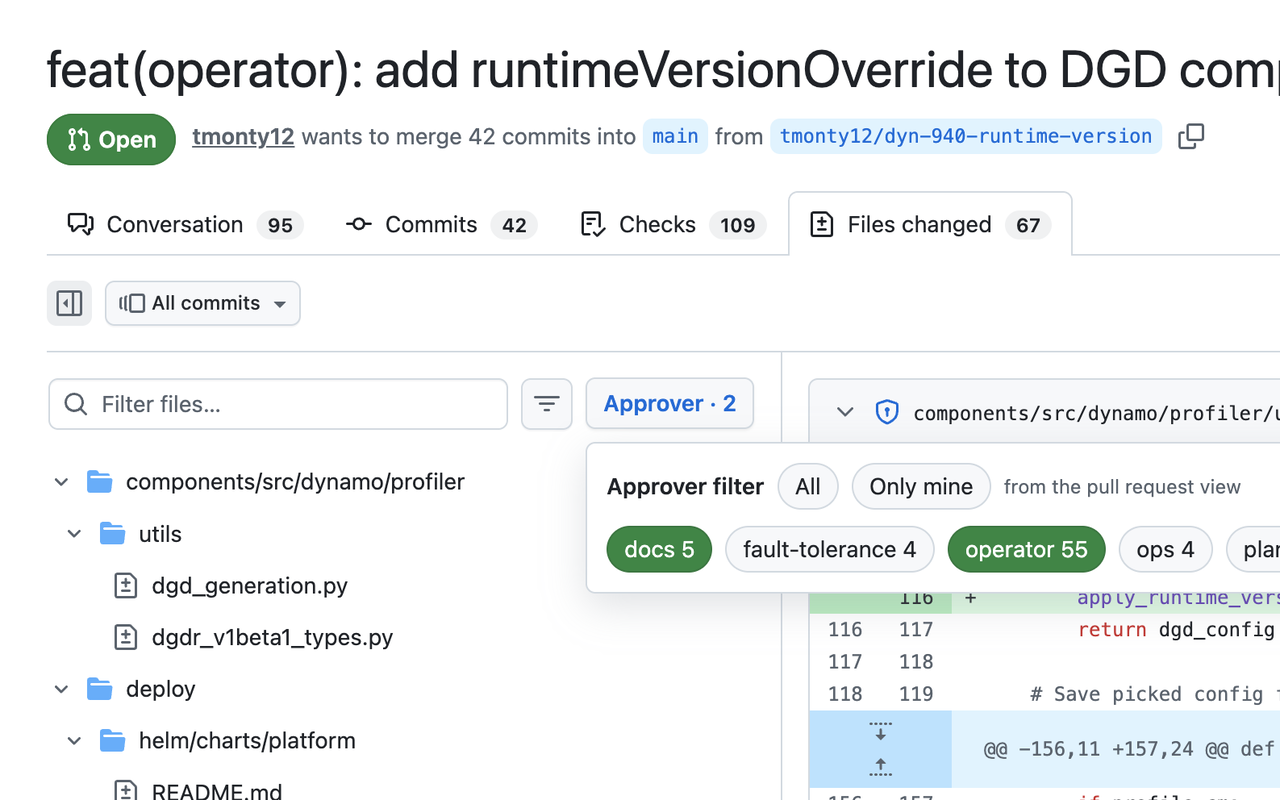
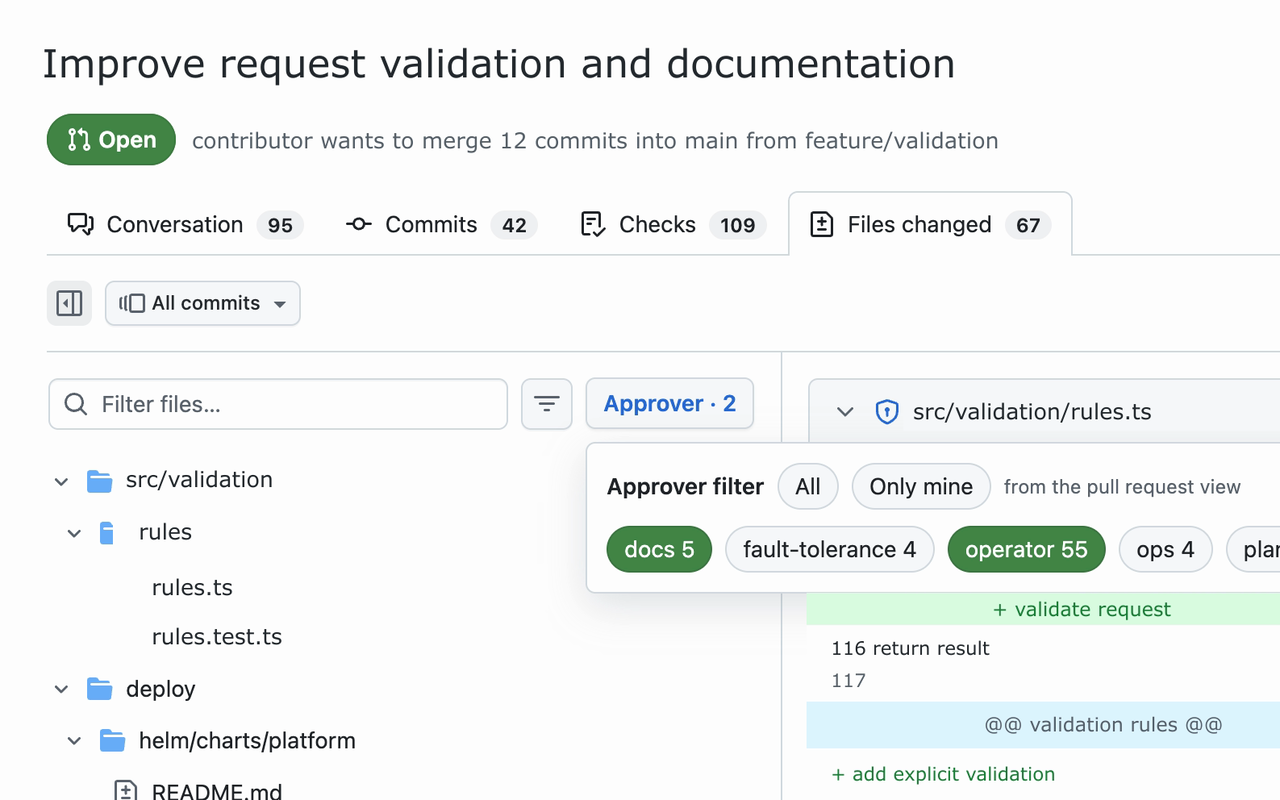
extension/release: remove project-specific references

diff --git a/src/content.js b/src/content.js
@@ -410,7 +410,7 @@
 
     const name = owner.replace(/^@/, "").split("/").at(-1);
 
-    return name.replace(/^dynamo-/, "").replace(/-codeowners$/, "");
+    return name.replace(/-codeowners$/, "");
   }
 
   function scanFiles() {

diff --git a/AGENTS.md b/AGENTS.md
@@ -1,0 +1,49 @@
+# Project instructions
+
+## Product
+
+- This is a vendor-neutral Manifest V3 Chrome extension for filtering GitHub pull-request files by CODEOWNER or approver groups.
+- Keep all user-facing text in English.
+- Do not introduce company-, organization-, repository-, employee-, or project-specific names into source code, tests, documentation, screenshots, fixtures, or release packages.
+- Do not add organization-specific owner-name transformations or special cases.
+- Do not collect or transmit browsing data. Persist only repository-local preferences required by the extension.
+
+## GitHub compatibility
+
+- Support both GitHub's classic diff view and its React-based Files changed preview.
+- Prefer semantic attributes, accessible labels, links, and stable DOM relationships over generated CSS-module class names.
+- Apply filtering to both diff entries and the file tree.
+- Use OR semantics when multiple owner groups are selected.
+- Treat Only mine as an action: select the groups inferred from GitHub's ownership labels and close the popup. It is not an independent filter state.
+- Close popups when the user clicks outside them.
+
+## CODEOWNERS
+
+- Preserve the verbatim matching CODEOWNERS rule and its line number.
+- Show every relevant matching rule in the owner tooltip and link each rule to its CODEOWNERS file and line.
+- Preserve multiple owners for a file; never reduce them to one owner.
+- Owner display names may remove the generic `-codeowners` suffix only.
+
+## UI
+
+- Integrate controls beside GitHub's existing file-filter controls without increasing the sidebar width.
+- Indicate active owner filtering with GitHub-like blue text, not a colored background.
+- Keep controls compact and avoid floating overlays when a suitable GitHub toolbar location exists.
+- Place owner badges in diff headers to the left of the added and deleted line counts.
+
+## Verification
+
+- Run `npm test` after every behavior change.
+- Never skip or weaken tests to make them pass.
+- Before a release, run `npm run audit:release -- --forbid <sensitive-term>` once for every applicable sensitive term.
+- The release audit must pass tests, `git diff --check`, version consistency, package allow-list validation, and sensitive-term scans of both the repository and ZIP.
+- Manually inspect store screenshots for sensitive visible content because text scans cannot reliably inspect pixels.
+- Inspect the generated ZIP and keep it limited to runtime extension files.
+
+## Releases
+
+- Package with `npm run package`.
+- Never reuse a published version number for different contents.
+- Do not commit, tag, publish, or push unless the user explicitly requests it.
+- Use signed commits.
+- Use commit titles in the form `area/subarea: short description`.

diff --git a/store-assets/listing.md b/store-assets/listing.md
@@ -3,7 +3,7 @@
 ## Product details
 
 - **Name:** GitHub CODEOWNERS Filter
-- **Version:** 0.1.4
+- **Version:** 0.1.5
 - **Language:** English
 - **Category:** Developer Tools
 - **Homepage:** https://github.com/sttts/chrome-github-codeowners-filter
@@ -72,7 +72,7 @@ No user data is collected or transmitted to the developer or third parties. GitH
 
 ## Reviewer test instructions
 
-1. Open https://github.com/ai-dynamo/dynamo/pull/10494/files.
+1. Open a public pull request in a repository with a CODEOWNERS file.
 2. Open the Files changed tab.
 3. Click the blue Approver button next to GitHub's file filter.
 4. Select one or more owner groups.

diff --git a/README.md b/README.md
@@ -3,7 +3,7 @@
 > [!WARNING]
 > This extension is experimental and purely vibe-coded. Use it at your own risk.
 
-![Approver filtering in GitHub’s Files changed view](docs/approver-filter.png)
+![Approver filtering in GitHub’s Files changed view](store-assets/screenshot-1.png)
 
 A small Chrome extension that filters changed files on a GitHub pull request’s **Files changed** page by approver or CODEOWNER group.
 
